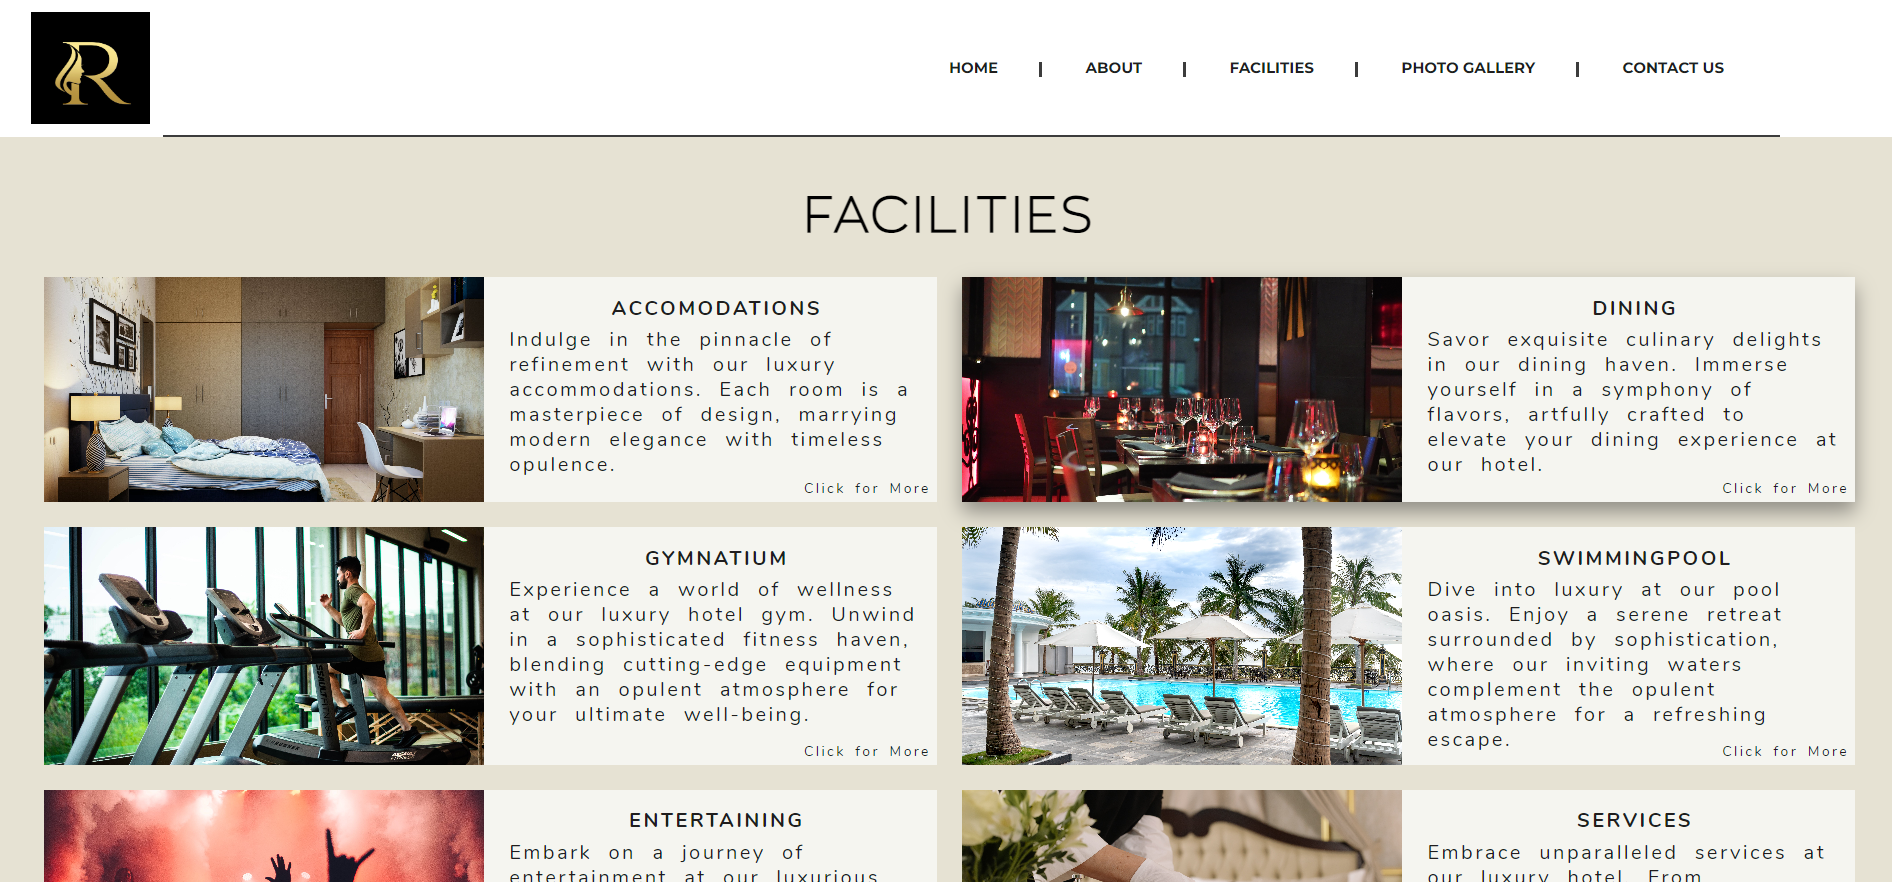
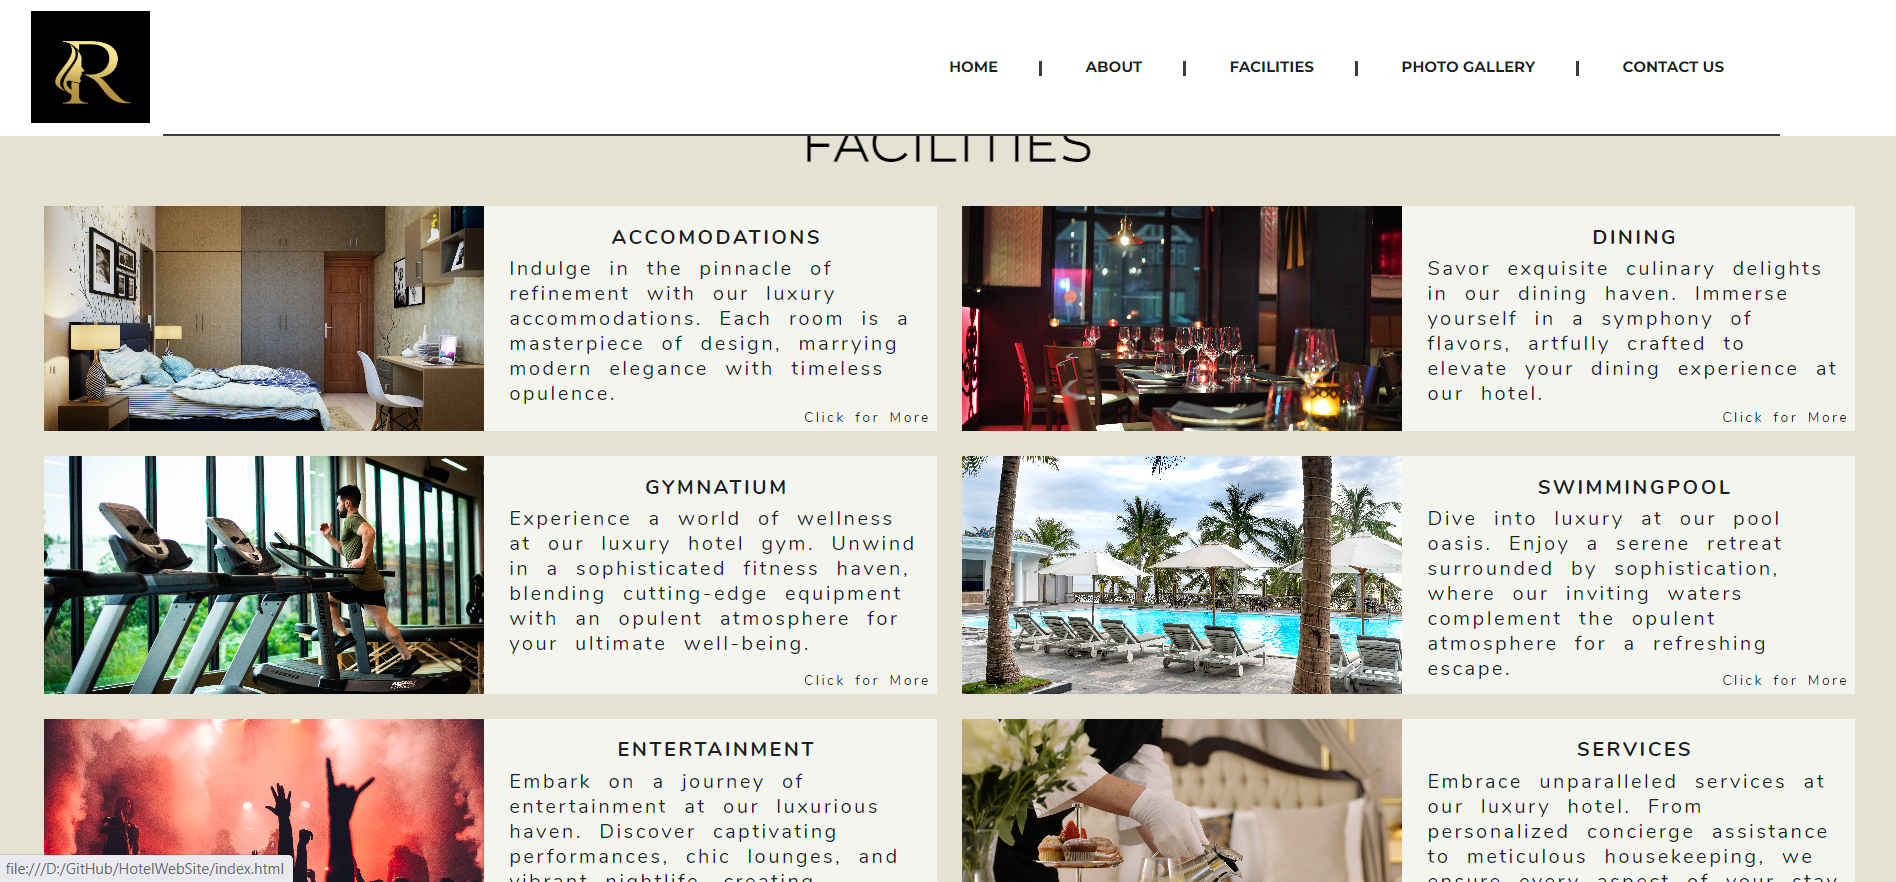
Initial commit

diff --git a/index.html b/index.html
@@ -165,7 +165,7 @@
                     <a href="facilities.html#ent" class="grid-item">
                         <div class="fac-img" style="background-image: url('images/facilities/entertaining/ent.jpg');"></div>
                         <div class="fac-details">
-                            <div class="fac-det-title">ENTERTAINMENT</div>
+                            <div class="fac-det-title">ENTERTAINING</div>
                             <div class="fac-det-text">
                                 Embark on a journey of entertainment at our luxurious haven. Discover captivating performances, chic lounges, and vibrant nightlife, creating unforgettable moments throughout your stay.
                                 <div class="click-text">Click for More</div>

diff --git a/facilities.html b/facilities.html
@@ -309,10 +309,10 @@
 
         </section>
 
-        <!------------------------------ Entertainment section----------------------------------------->
+        <!------------------------------ Entertaining section----------------------------------------->
 
         <section id="ent">
-            <h1 class="sec-title">entertainment</h1>
+            <h1 class="sec-title">entertaining</h1>
             <div class="acc-cont">
                 <div class="item-1" onmouseover="showPopup('ent-popup1')" onmouseout="hidePopup('ent-popup1')" style="background-image: url(images/facilities/entertaining/1.jpg);">
                     <div class="acc-det-title">Outdoor Sports Paradise</div>

diff --git a/README.md b/README.md
@@ -5,22 +5,22 @@ A simple web-based application that is suitable for hotel websites includes sect
 ## Screenshots
 
 ![Screenshot 2](demo_photos/home_page.png)
-*Movie Recommender application*
+*Home section*
 
 ![Screenshot 1](demo_photos/facilities_page.png)
-*Searching movies*
+*Facilities section*
 
 ![Screenshot 1](demo_photos/gallery_page.png)
-*Searching movies*
+*Gallery section*
 
 ![Screenshot 2](demo_photos/contact_page.png)
-*Movie Recommender application*
+*Contact section*
 
 ![Screenshot 1](demo_photos/din.png)
-*Searching movies*
+*Facilities page- dining section*
 
 ![Screenshot 1](demo_photos/ent.png)
-*Searching movies*
+*Facilities page- entertaining section*
 
 ## Front-end development
 
